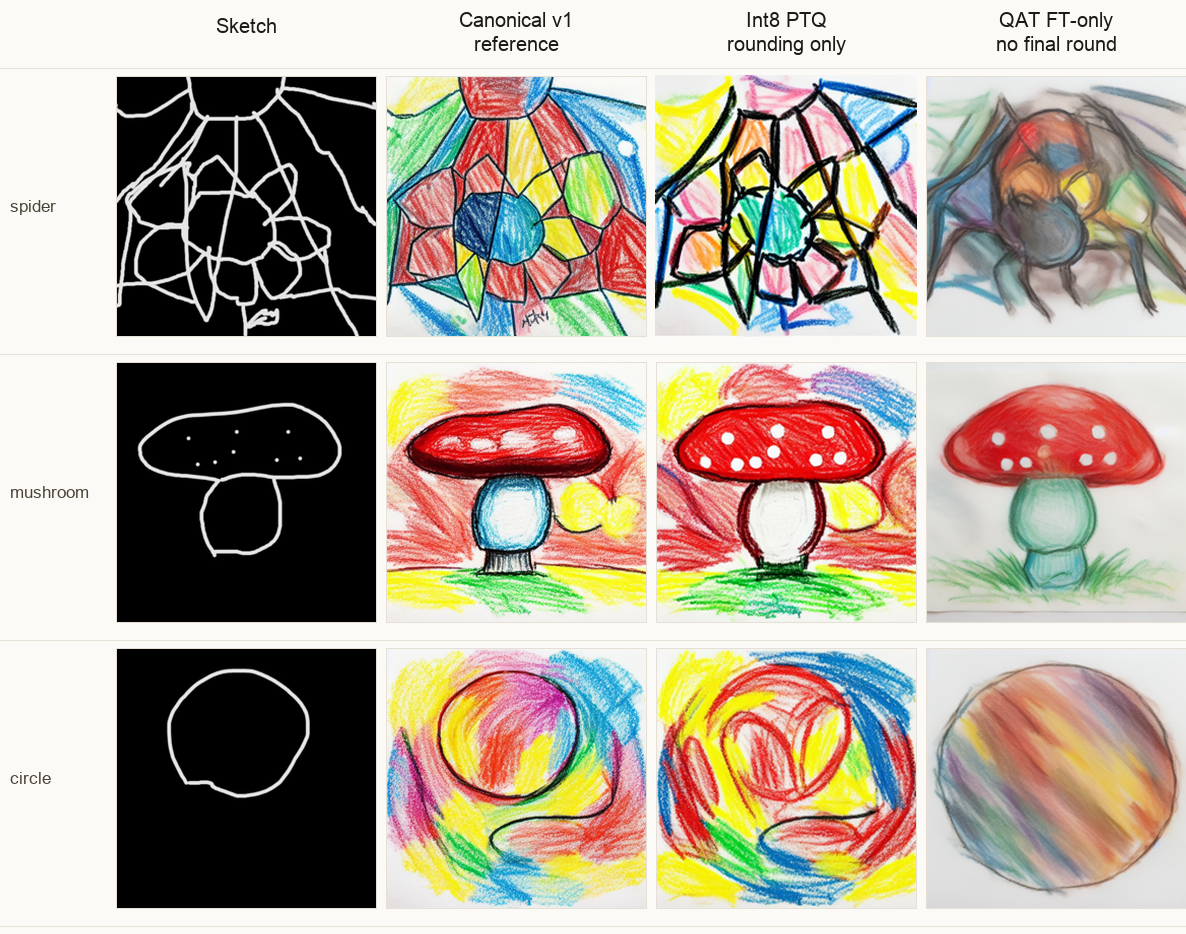
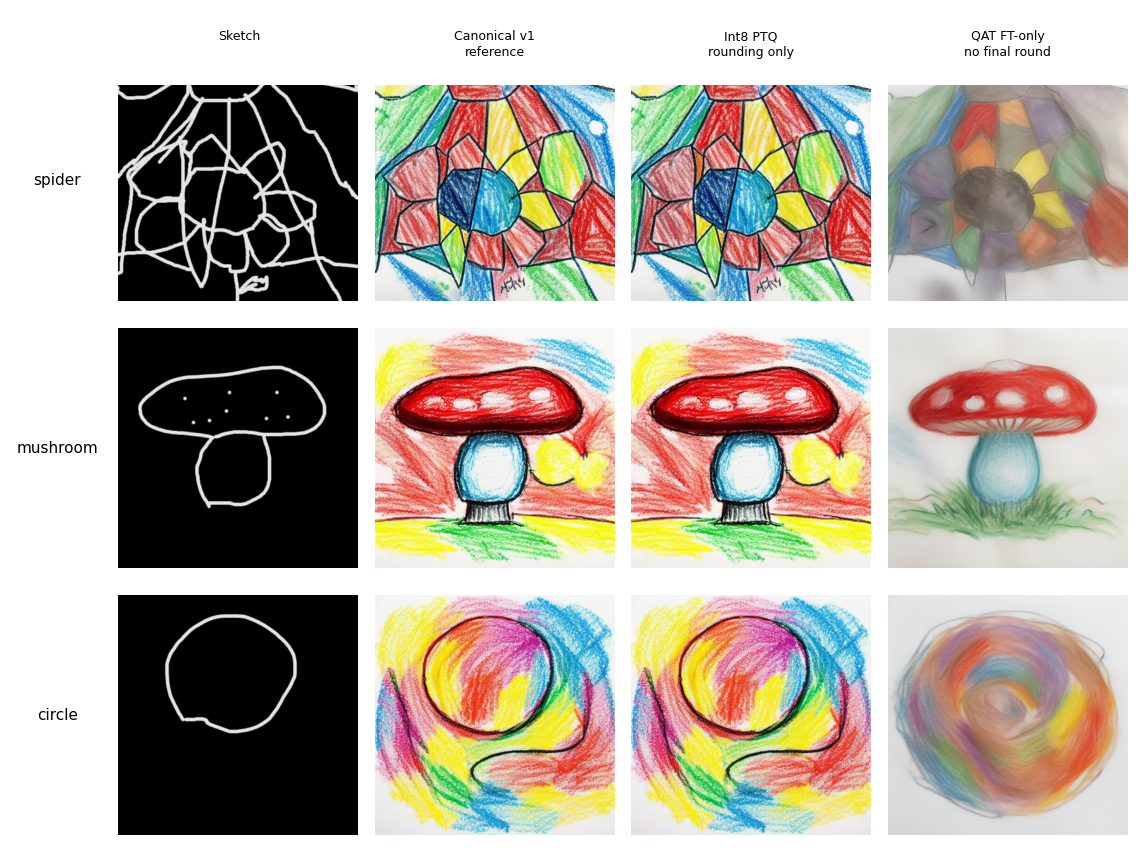
Regenerate DoodleCraft figures against one canonical v1 baseline
The three figures previously used v1 renders from three different generation
sessions for the same sketches. Root cause: master_comparison_grid.py used a
CLIP-scoring string as the actual generation prompt instead of the real
production prompt in styles_catalogue.py, a genuine bug, not just session
drift. Regenerated v1, SVD, Int8 PTQ, QAT, and the resolution sweep against
the correct prompt so every figure now shows a consistent v1 per sketch. Kept
the old SVD renders (closer to the published "muddy and painterly" call) and
the existing Int4 noise image (the only on-disk export is architecturally
incompatible with this pipeline, can't be regenerated).

Drift numbers in the text stay as originally published; a fresh side-effect
recomputation during this fix didn't reproduce the Int8 PTQ number closely
enough to trust over the original dedicated measurement, so the images
changed but the cited numbers didn't.

With a consistent v1 to compare against, revised the Section I verdicts:
Pipeline shape now reads Accept (its column is pixel-identical to v1, since
the accepted real-world config is v1's own settings), and Int8 PTQ moves from
Quality pass to Qualified, mirrored in the Section IV scorecard. Added a line
in Section II clarifying that the 0.019 rounding-only number was never a
shippable candidate, it's a diagnostic ablation, to head off the obvious
question of why the real Int8 PTQ (0.112) isn't compared against it directly.

diff --git a/doodle-craft/index.html b/doodle-craft/index.html
@@ -310,7 +310,7 @@
         <td>Int8 PTQ<span class="term-note">8-bit post-training quantization</span></td>
         <td>Quantize without retraining</td>
         <td>Best image-preservation result: drift 0.112. It was the cleanest compression result.</td>
-        <td class="decision pass">Quality pass</td>
+        <td class="decision qualified">Qualified</td>
       </tr>
       <tr>
         <td>QAT<span class="term-note">quantization-aware training</span></td>
@@ -321,8 +321,8 @@
       <tr>
         <td>Pipeline shape</td>
         <td>Change steps and resolution</td>
-        <td>Visually close to the v1 baseline.</td>
-        <td class="decision qualified">Potential path</td>
+        <td>Matches the v1 baseline directly.</td>
+        <td class="decision pass">Accept</td>
       </tr>
     </tbody>
   </table>
@@ -333,8 +333,7 @@
       Same sketches, same canonical v1 reference column. Candidate columns are rebuilt from the original
       run artifacts and named to match the comparison table. 8-bit post-training quantization keeps the
       waxy crayon feel. Quantization-aware training softens into pastel. Singular value decomposition
-      recovery becomes painterly. Pipeline shape's quick test lands close to the canonical v1, a
-      potential path Section III explores further.
+      recovery becomes painterly. Pipeline shape matches the canonical v1 column directly.
     </figcaption>
   </figure>
 
@@ -345,6 +344,12 @@
     The surprising number was not a CLIP score. It was the image-drift split: 0.019 from
     8-bit rounding versus 0.234 from fine-tuning. Rounding barely moved the image.
     Fine-tuning moved the medium.
+  </p>
+
+  <p>
+    Rounding alone was never shippable. It only runs without the int8 math here, to isolate the cost.
+    The real candidate, the one that actually runs end to end in int8, is Section I's Int8 PTQ at
+    drift 0.112.
   </p>
 
   <figure>
@@ -415,7 +420,7 @@
         <td>Int8 PTQ<span class="term-note">8-bit post-training quantization</span></td>
         <td class="gate">preserve v1 look</td>
         <td class="actual">drift 0.112; closest compression result</td>
-        <td class="check">PASS</td>
+        <td class="warn">QUALIFIED</td>
       </tr>
       <tr>
         <td>QAT<span class="term-note">quantization-aware training</span></td>
@@ -426,8 +431,8 @@
       <tr>
         <td>Pipeline shape</td>
         <td class="gate">grid still holds</td>
-        <td class="actual">512 holds visually; 384 shows visible drift</td>
-        <td class="warn">QUALIFIED</td>
+        <td class="actual">matches v1 directly; 384 still shows visible drift</td>
+        <td class="check">PASS</td>
       </tr>
     </tbody>
   </table>
